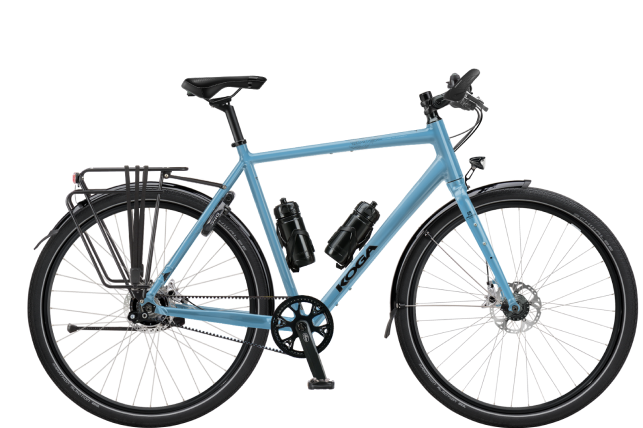
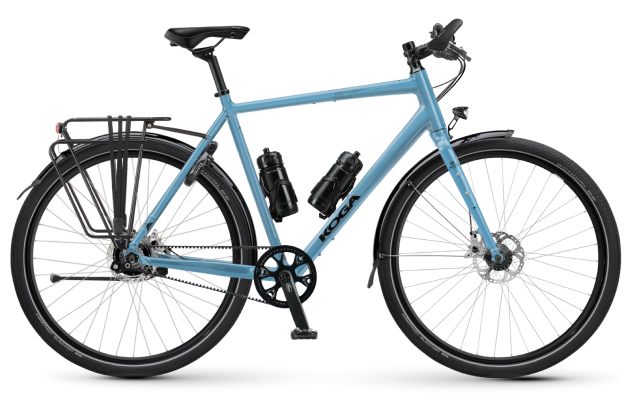
ui fixes and quality improvement

diff --git a/src/app/shopping-cart/product-block/product-block.component.scss b/src/app/shopping-cart/product-block/product-block.component.scss
@@ -20,17 +20,23 @@
                 margin-top: 0;
                 border-bottom: 0;
             }
-            @include max-screen($mobile){
+            @include max-screen($mobile) {
                 font-size: 14px;
                 font-weight: 600;
+            }
+        }
+        picture {
+            @include min-screen($desktop) {
+                display: block;
+                margin: 24px 0 0 -10px;
             }
         }
     }
     &__download {
         margin-top: 20px;
-        @include max-screen($tablet){
+        @include max-screen($tablet) {
             display: flex;
-            justify-content: flex-end;    
+            justify-content: flex-end;
         }
         img {
             width: 27px;
@@ -73,11 +79,21 @@
                     width: 63px;
                     outline: none;
                     height: 34px;
-                    padding: 5px 10px;
+                    padding: 5px 13px;
                     font-weight: 700;
                     text-align: right;
                     color: $color-secondary;
                     border: 1px solid $color-disabled-dark;
+                }
+                &:nth-child(1) {
+                    @include min-screen($desktop) {
+                        width: 36.6%;
+                    }
+                }
+                &:nth-child(2) {
+                    @include min-screen($desktop) {
+                        width: 30%;
+                    }
                 }
             }
         }
@@ -93,7 +109,7 @@
         }
     }
     &__social {
-        margin-top: 63px;
+        margin-top: 57px;
         @include max-screen($desktop) {
             margin-top: 33px;
         }

diff --git a/src/app/shopping-cart/product-block/product-block.component.html b/src/app/shopping-cart/product-block/product-block.component.html
@@ -2,19 +2,21 @@
     <div class="product-block__wrap d-flex flex-wrap">
         <div class="product-block__left">
             <h3>Worldtraveller-S</h3>
-            <img src="/assets/images/cycle-blue.png" alt="Worldtraveller-S">
+            <picture>
+                <img src="/assets/images/cycle-blue.png" alt="Worldtraveller-S">
+            </picture>
 
             <div class="product-block__download">
                 <img src="assets/images/download.svg" alt="Download"/>
             </div>
         </div>
         <div class="product-block__right">
-            <ol class="d-flex justify-content-between align-items-lg-center align-items-start">
+            <ol class="d-flex justify-content-between align-items-xl-center align-items-start">
                 <li>Prijs</li>
                 <li>Aantal</li>
                 <li>Subtotaal</li>
             </ol>
-            <ul class="d-flex justify-content-between align-items-lg-center align-items-end">
+            <ul class="d-flex justify-content-between align-items-xl-center align-items-end">
                 <li>€ 4,343.99</li>
                 <li><input type="text" value="1"></li>
                 <li>€ 4,343.99</li>

diff --git a/src/assets/scss/variables.scss b/src/assets/scss/variables.scss
@@ -1,26 +1,25 @@
-
 // colors
-$color-primary: #0E7CC7;
-$color-secondary: #041E42;
-$color-cream: #FFF5E9;
+$color-primary: #0e7cc7;
+$color-secondary: #041e42;
+$color-cream: #fff5e9;
 $color-white: #fff;
-$color-error: #D30E29;
-$color-success: #03D26F;
+$color-error: #d30e29;
+$color-success: #03d26f;
 $color-black: #000;
-$color-borderdark:#656D8E;
-$color-darkBlue:#232F5D;
-$color-disabled:#CFE5F4;
-$color-disabled-dark: #D3D5DF;
-$color-disabled-gray: #D8D8D8;
-$color-disabled-light: #EAEAEA;
+$color-borderdark: #656d8e;
+$color-darkBlue: #232f5d;
+$color-disabled: #cfe5f4;
+$color-disabled-dark: #d3d5df;
+$color-disabled-gray: #d8d8d8;
+$color-disabled-light: #eaeaea;
 
 // base
 $font-size-base: 16px;
 $line-height-base: 1.5;
-$font-family-base: 'Quatro', sans-serif;
-$font-family-secondary: 'Quatro Slab', sans-serif;
-$radius:10px;
-$radius-xl:55px;
+$font-family-base: "Quatro", sans-serif;
+$font-family-secondary: "Quatro Slab", sans-serif;
+$radius: 10px;
+$radius-xl: 55px;
 
 // breakpoints
 $smobile: 575px;
@@ -36,4 +35,3 @@ $imgPath: "/assets/images/";
 
 // mixins
 @import "mixins";
-

diff --git a/src/app/shared/product-price-info/product-price-info.component.html b/src/app/shared/product-price-info/product-price-info.component.html
@@ -1,6 +1,6 @@
 <div class="product-price">
     <h5>Overzicht</h5>
-    <div class="mt-4">
+    <div class="mt-md-4 mt-3">
         <div class="mb-2 d-flex justify-content-between">
             <p>Configuratie <br class="d-none d-md-block">(stap 1 - 9)</p>
             <strong>€ 4,903.00</strong>
@@ -54,9 +54,8 @@
 
         <div class="product-price__accept" *ngIf="accept">
             <input type="checkbox" id="accept">
-            <label for="accept">
-                <p>Lorem ipsum dolor sit amet.</p> <img src="assets/images/info.svg" alt="Info"/>
-            </label>
+            <label for="accept">Lorem ipsum dolor sit amet.</label>
+            <img src="assets/images/info.svg" alt="Info"/>
         </div>
 
         <button class="btn btn-primary w-100" disabled>

diff --git a/src/app/delivery-data/delivery-form/delivery-form.component.html b/src/app/delivery-data/delivery-form/delivery-form.component.html
@@ -26,7 +26,7 @@
             </div>
         </div>
         <div class="row">
-            <div class="col-md-5">
+            <div class="col-md-5 col-6">
                 <div class="form-floating">
                     <input type="text" class="form-control" id="floatingInput"
                         placeholder="name@example.com">
@@ -34,7 +34,7 @@
                     <span class="invalid-feedback">Please add error msg </span>
                 </div>
             </div>
-            <div class="col-md-3">
+            <div class="col-md-3 col-6">
                 <div class="form-floating">
                     <input type="text" class="form-control" id="floatingInput" placeholder="name@example.com">
                     <label for="floatingInput">Huisnr</label>

diff --git a/src/app/shared/language-selector/language-selector.component.scss b/src/app/shared/language-selector/language-selector.component.scss
@@ -23,6 +23,11 @@
         padding: 0;
         overflow: hidden;
     }
+    &__logo {
+        @include max-screen($mobile){
+            margin-bottom: 30px;
+        }
+    }
     &__wrapper {
         @include max-screen($mobile) {
             left: 0;
@@ -216,7 +221,6 @@
         &-child {
             @include max-screen($mobile){
                 display: none;
-                padding-top: 20px;
             }
             .nav-tabs {
                 @include max-screen($mobile){
@@ -271,6 +275,9 @@
         @include max-screen($mobile){
             position: relative;
             overflow-x: auto;
+        }
+        &::-webkit-scrollbar {
+            display: none;
         }
         ul {
             @include min-screen($mobile){

diff --git a/src/app/shared/language-selector/language-selector.component.html b/src/app/shared/language-selector/language-selector.component.html
@@ -19,11 +19,10 @@
         <img src="/assets/images/cross-blue.svg" role="button" alt="close" (click)="closeModal()">
       </div>
 
-      <!---logo componet need to be seperate-->
-      <div class="logo d-none d-md-block">
+      <div class="languageModal__logo d-none d-md-block">
         <img src="/assets/images/logo-signature.svg" alt="logo" />
       </div>
-      <div class="logo d-md-none">
+      <div class="languageModal__logo d-md-none">
         <img src="/assets/images/logo.svg" alt="logo" />
       </div>
 

diff --git a/src/app/delivery-data/delivery-data-wrapper/delivery-data-wrapper.component.scss b/src/app/delivery-data/delivery-data-wrapper/delivery-data-wrapper.component.scss
@@ -22,12 +22,14 @@
         }
     }
     &__content {
+        margin-top: -8px;
         width: calc(100% - 390px);
         @include max-screen($desktop){
             width: calc(100% - 350px);
         }
         @include max-screen($tablet) {
             width: 100%;
+            margin-top: 0;
         }
     }
     &__info {

diff --git a/src/app/configurator/components/frame/frame.component.scss b/src/app/configurator/components/frame/frame.component.scss
@@ -116,21 +116,3 @@
         }
     }
 }
-
-
-.flag{
-    margin: 10px 15px;
-    width: 16.66%;
-    img{
-        width: 32px;
-        height: 24px;
-        object-fit: cover;
-    }
-    span{
-        font-size: 20px;
-        color: $color-white;
-    }
-    &.active{
-        border: 2px solid $color-white;
-    }
-}

diff --git a/src/app/configurator/components/config-header/config-header.component.scss b/src/app/configurator/components/config-header/config-header.component.scss
@@ -88,8 +88,11 @@
             margin-left: auto;
         }
         @include max-screen($desktop) {
+            padding: 3px;
             margin-right: 0;
             margin-left: auto;
+            border-radius: 5px;
+            background-color: $color-white;
         }
         li {
             list-style: none;

diff --git a/src/app/configurator/components/frame-info/frame-info.component.scss b/src/app/configurator/components/frame-info/frame-info.component.scss
@@ -7,7 +7,7 @@
             padding: 0px;
         }
         @include max-screen($mobile){
-            border-bottom-color: rgba($color-darkBlue, 0.5);
+            border-bottom-color: rgba($color-darkBlue, 0.2);
         }
         .nav-item {
             @include max-screen($mobile){

diff --git a/src/assets/scss/_form.scss b/src/assets/scss/_form.scss
@@ -9,6 +9,7 @@
         border-color: $color-borderdark;
         height: 48px;
         box-shadow: 0 0 0;
+        color: $color-secondary;
         padding: 0 12px !important;
         @include max-screen($mobile){
             height: 40px;
